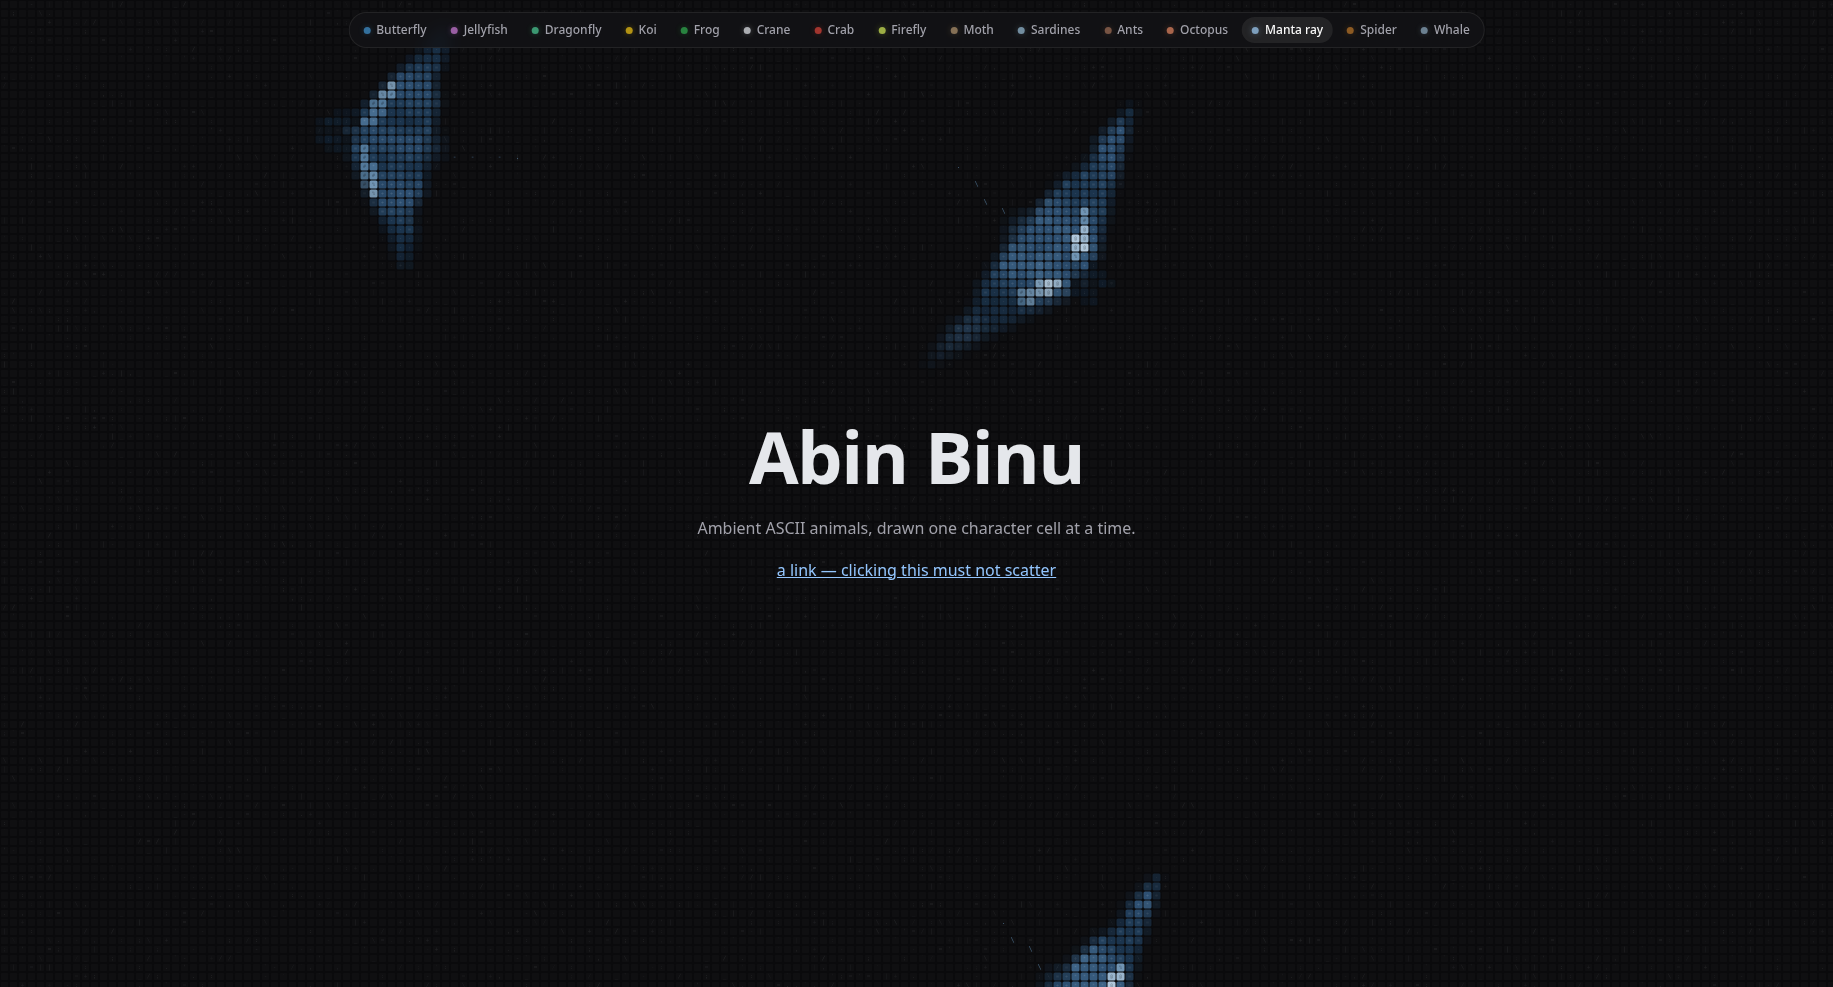
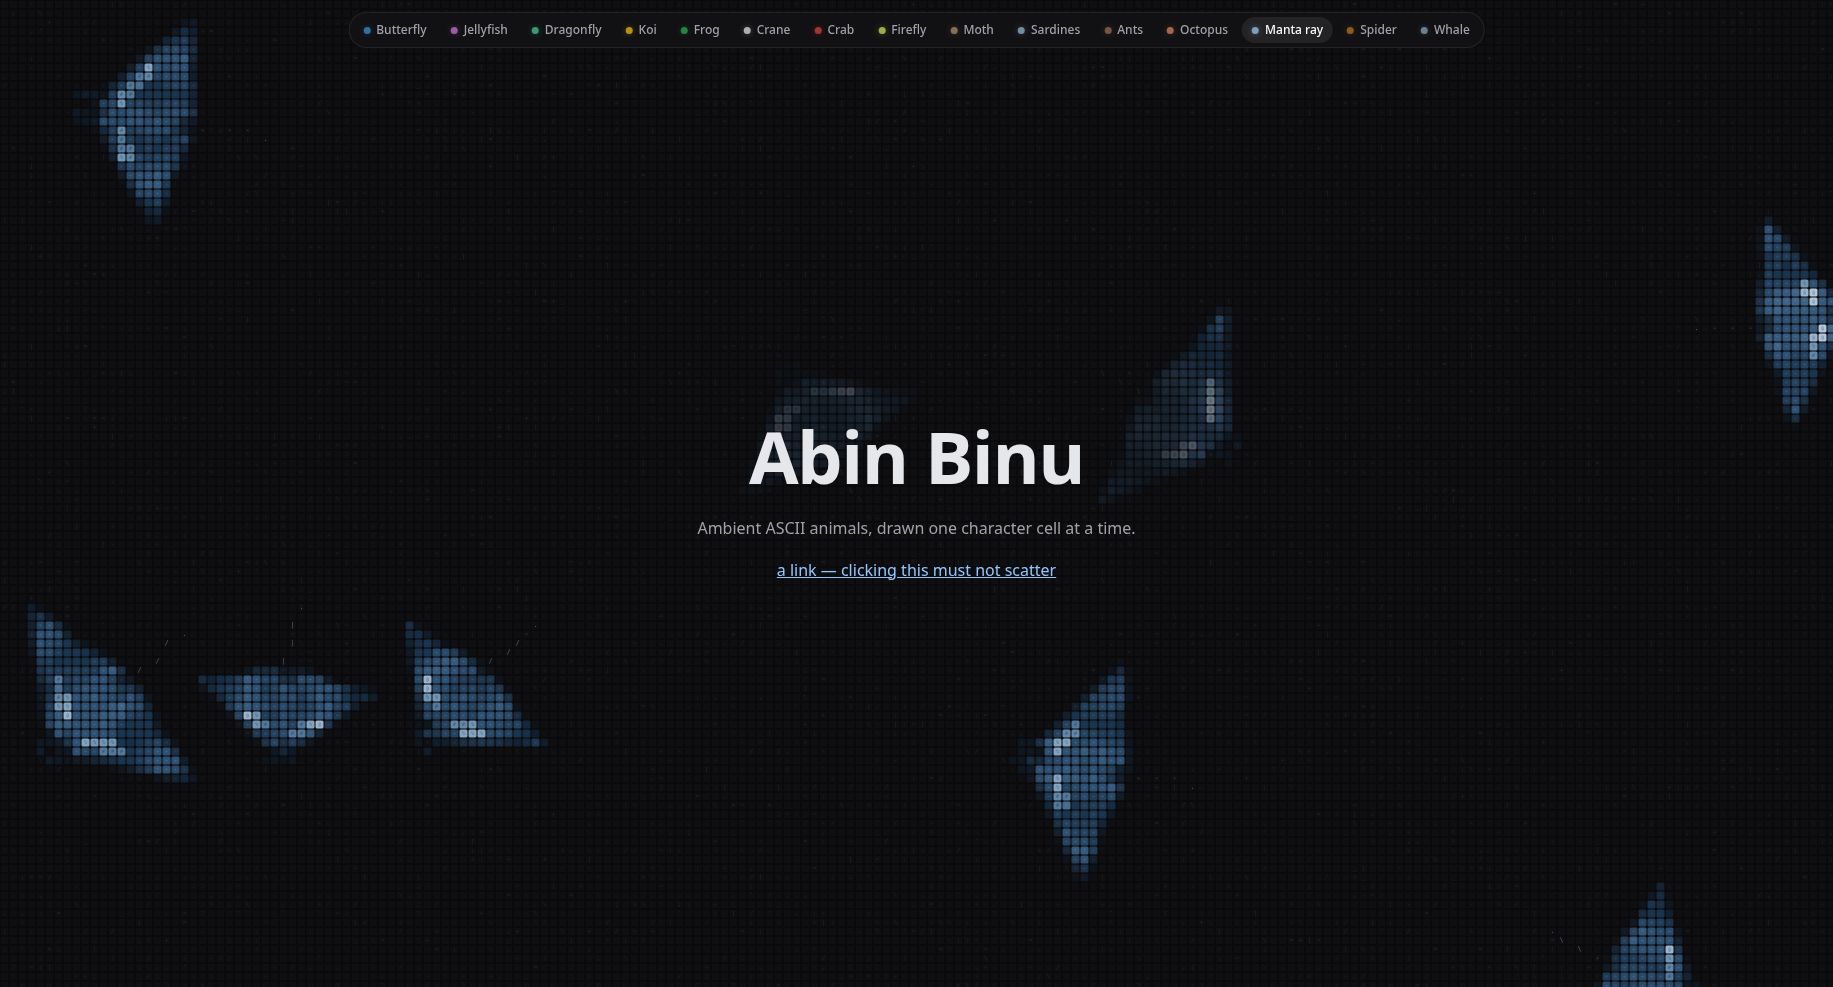
Manta: more of them, faster, deeper wings

diff --git a/src/animals/manta.ts b/src/animals/manta.ts
@@ -22,7 +22,7 @@ function cellFn(u: number, v: number, col: number, row: number): void {
   const ax = Math.abs(u);
 
   // Cephalic fins: two short curled lobes in front of the head.
-  const dF = capsule(ax, v, 0.85, -2.7, 0.65 + 0.15 * Math.sin(wave * 0.5), -3.9);
+  const dF = capsule(ax, v, 0.9, -3.3, 0.7 + 0.15 * Math.sin(wave * 0.5), -4.6);
   const fc = aaCov(dF, 0.36);
   if (fc > 0.3) {
     S.stamp(col, row, S.tileKey(pal, 0.24), fc, z + 0.5);
@@ -31,24 +31,24 @@ function cellFn(u: number, v: number, col: number, row: number): void {
 
   // Body + wings: a central disc and a rounded triangle per side, squashed by the flap.
   const wx = ax / span;
-  const bend = (1 - span) * 1.4 * clamp01(wx / 9); // tips sweep back as they rise
+  const bend = (1 - span) * 2.5 * clamp01(wx / 9); // tips sweep back as they rise
   const vv = v - bend;
   // Wing: leading edge from the head out to a swept-back pointed tip; the trailing edge is scooped
   // (concave) on its way back to the body, which gives the classic manta silhouette.
-  let sdW = sdTriangle(wx, vv, 0.5, -2.7, 10.8, 1.9, 0.9, 2.5) - 0.3;
-  const scx = 6.4;
-  const scy = 5.3;
-  const scoop = 3.25 - Math.sqrt((wx - scx) * (wx - scx) + (vv - scy) * (vv - scy));
+  let sdW = sdTriangle(wx, vv, 0.5, -3.4, 9.6, 2.6, 0.9, 4.4) - 0.3;
+  const scx = 6.0;
+  const scy = 7.0;
+  const scoop = 3.6 - Math.sqrt((wx - scx) * (wx - scx) + (vv - scy) * (vv - scy));
   if (scoop > sdW) sdW = scoop; // carve the concave trailing edge
-  const eb = ellipse(u, v * (v < 0 ? 1.15 : 1), 0, 0.2, 1.9, 3.0, 0); // flat-fronted head and body
+  const eb = ellipse(u, v * (v < 0 ? 1.1 : 1), 0, 0.5, 2.1, 3.6, 0); // flat-fronted head and body
   const sd = Math.min(sdW, (eb - 1) * 1.6);
   if (sd > 0.6) return;
   let sh = 0.44;
-  sh += 0.12 * (1 - clamp01(wx / 10.8)); // body ridge lighter
+  sh += 0.12 * (1 - clamp01(wx / 9.6)); // body ridge lighter
   // Leading edge catches light; trailing edge darker.
-  sh += 0.1 * smooth(0, -1.6, vv - (-2.7 + (4.6 / 10.3) * wx));
+  sh += 0.1 * smooth(0, -1.6, vv - (-3.4 + (6.0 / 9.1) * wx));
   // Pale shoulder chevrons (like a reef manta).
-  if (ellipse(ax, v, 2.3, -0.8, 1.8, 0.55, 0.42) < 1) sh = 0.84;
+  if (ellipse(ax, v, 2.4, -0.6, 1.9, 0.6, 0.5) < 1) sh = 0.84;
   // A light band travels out along the wings with each beat.
   sh += 0.1 * Math.sin(wx * 0.9 - wave) * clamp01(wx / 2);
   sh += (vnoise2(u * 0.8 + cur.seed, v * 0.8) - 0.5) * 0.1; // mottling
@@ -62,9 +62,9 @@ export const manta: AnimalDef = {
   id: 'manta',
   label: 'Manta ray',
   dot: '#7d9fbd',
-  baseCount: 4,
-  minCount: 2,
-  maxCount: 8,
+  baseCount: 12,
+  minCount: 6,
+  maxCount: 18,
   radius: RADIUS + 6,
   clickMode: 'scatter',
   edge: 'wrap',
@@ -79,10 +79,10 @@ export const manta: AnimalDef = {
     e.x = range(rng, 0, world.w);
     e.y = range(rng, 0, world.h);
     e.heading = range(rng, 0, Math.PI * 2);
-    e.speed = range(rng, 60, 90);
-    e.rate = range(rng, 0.5, 0.65); // beats per second
+    e.speed = range(rng, 120, 165);
+    e.rate = range(rng, 0.75, 0.95); // beats per second
     e.phase = range(rng, 0, 10);
-    e.scale = range(rng, 1.4, 1.8);
+    e.scale = range(rng, 1.1, 1.4);
     e.seed = range(rng, 0, 1000);
     if (fromEdge) placeAtEdge(e, world, rng, (RADIUS + 6) * e.scale * world.cell);
     e.drawHeading = e.heading;
@@ -92,7 +92,7 @@ export const manta: AnimalDef = {
   update(e, dt, world) {
     e.heading += (vnoise(world.t * 0.15 + e.seed) - 0.5) * 1.0 * dt;
     const sp = e.speed * (1 + 2.2 * e.panic);
-    const k = approach(0.9, dt);
+    const k = approach(1.5, dt);
     e.vx += (Math.cos(e.heading) * sp - e.vx) * k;
     e.vy += (Math.sin(e.heading) * sp - e.vy) * k;
     e.x += e.vx * dt;
@@ -105,14 +105,14 @@ export const manta: AnimalDef = {
     S = s;
     cur = e;
     pal = this.pal.back;
-    span = 0.84 + 0.16 * Math.cos(e.phase); // from above, the wingtips rising and falling shorten the span only a little
+    span = 0.92 + 0.08 * Math.cos(e.phase); // from above, the wingtips rising and falling shorten the span only a little
     wave = e.phase;
     s.forEachCell(e, RADIUS, cellFn);
     // Long whip tail, glyph-only, with a slow sway.
     for (let i = 0; i < 5; i++) {
       const t = i / 4;
       tail[i * 2] = Math.sin(e.phase * 0.5 - t * 2) * 0.6 * t;
-      tail[i * 2 + 1] = 2.7 + 5.8 * t;
+      tail[i * 2 + 1] = 4.0 + 6.5 * t;
     }
     s.stampLine(e, tail, 5, pal, 0.75, e.z - 0.1, G['.']);
   },
